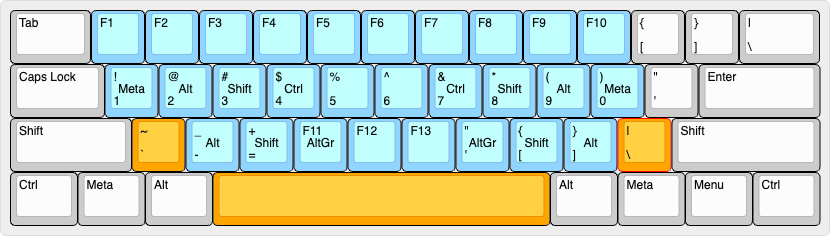
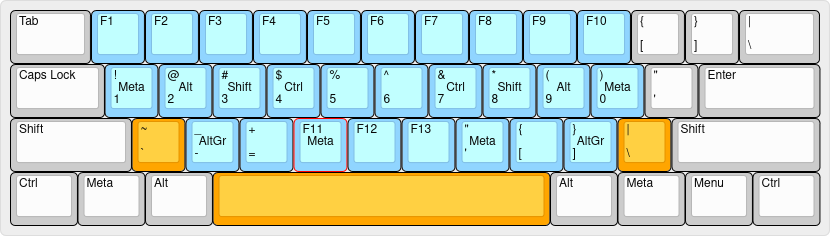
Update README.md.

diff --git a/README.md b/README.md
@@ -17,11 +17,11 @@ This layout implements a few chords, also known as combos or key combinations, w
 
 ### Layers
 
-Blue keys represent changes to the default layer. Orange indicates the key being held to activate the current layer.
+Blue keys represent changes to the default layer. Orange indicates which keys can activate the current layer while held.
 
 > Bear in mind that layer and modifier keys will activate only if another key is tapped immediately after. Otherwise, the expected repeat or long-press action will be respected (although a slight delay may be perceived).
 
-#### [Main](https://www.keyboard-layout-editor.com/##@_name=Main;&@_w:1.5;&=Tab&=Q&=W&=E&=R&=T&=Y&=U&=I&=O&=P&=%7B%0A%5B&=%7D%0A%5D&_w:1.5;&=%7C%0A%5C;&@_w:1.75;&=Caps%20Lock&_c=#90D5FF;&=A%0A%0A%0A%0A%0A%0A%0A%0A%0AMeta&=S%0A%0A%0A%0A%0A%0A%0A%0A%0AAlt&=D%0A%0A%0A%0A%0A%0A%0A%0A%0AShift&=F%0A%0A%0A%0A%0A%0A%0A%0A%0ACtrl&_c=#cccccc;&=G&=H&_c=#90D5FF;&=J%0A%0A%0A%0A%0A%0A%0A%0A%0ACtrl&=K%0A%0A%0A%0A%0A%0A%0A%0A%0AShift&=L%0A%0A%0A%0A%0A%0A%0A%0A%0AAlt&=/:%0A/;%0A%0A%0A%0A%0A%0A%0A%0AMeta&_c=#cccccc;&=%22%0A'&_w:2.25;&=Enter;&@_w:2.25;&=Shift&_c=#90D5FF;&=Z%0A%0A%0A%0A%0A%0A%0A%0A%0AFmbl&=X%0A%0A%0A%0A%0A%0A%0A%0A%0AAlt&=C%0A%0A%0A%0A%0A%0A%0A%0A%0AShift&=V%0A%0A%0A%0A%0A%0A%0A%0A%0AAltGr&_c=#cccccc;&=B&=N&_c=#90D5FF;&=M%0A%0A%0A%0A%0A%0A%0A%0A%0AAltGr&=%3C%0A,%0A%0A%0A%0A%0A%0A%0A%0AShift&=%3E%0A.%0A%0A%0A%0A%0A%0A%0A%0AAlt&=?%0A//%0A%0A%0A%0A%0A%0A%0A%0AFmbl&_c=#cccccc&w:2.75;&=Shift;&@_w:1.25;&=Ctrl&_w:1.25;&=Meta&_w:1.25;&=Alt&_c=#90D5FF&a:7&w:6.25;&=%3Ci%20class/='fa%20fa-thumbs-up'%3E%3C//i%3E&_c=#cccccc&a:4&w:1.25;&=Alt&_w:1.25;&=Meta&_w:1.25;&=Menu&_w:1.25;&=Ctrl)
+#### [Main](https://www.keyboard-layout-editor.com/##@_name=Main;&@_w:1.5;&=Tab&=Q&=W&=E&=R&=T&=Y&=U&=I&=O&=P&=%7B%0A%5B&=%7D%0A%5D&_w:1.5;&=%7C%0A%5C;&@_w:1.75;&=Caps%20Lock&_c=#90D5FF;&=A%0A%0A%0A%0A%0A%0A%0A%0A%0AMeta&=S%0A%0A%0A%0A%0A%0A%0A%0A%0AAlt&=D%0A%0A%0A%0A%0A%0A%0A%0A%0AShift&=F%0A%0A%0A%0A%0A%0A%0A%0A%0ACtrl&_c=#cccccc;&=G&=H&_c=#90D5FF;&=J%0A%0A%0A%0A%0A%0A%0A%0A%0ACtrl&=K%0A%0A%0A%0A%0A%0A%0A%0A%0AShift&=L%0A%0A%0A%0A%0A%0A%0A%0A%0AAlt&=/:%0A/;%0A%0A%0A%0A%0A%0A%0A%0AMeta&_c=#cccccc;&=%22%0A'&_w:2.25;&=Enter;&@_w:2.25;&=Shift&_c=#90D5FF;&=Z%0A%0A%0A%0A%0A%0A%0A%0A%0AFmbl&=X%0A%0A%0A%0A%0A%0A%0A%0A%0AAltGr&_c=#cccccc;&=C&_c=#90D5FF;&=V%0A%0A%0A%0A%0A%0A%0A%0A%0AMeta&_c=#cccccc;&=B&=N&_c=#90D5FF;&=M%0A%0A%0A%0A%0A%0A%0A%0A%0AMeta&_c=#cccccc;&=%3C%0A,&_c=#90D5FF;&=%3E%0A.%0A%0A%0A%0A%0A%0A%0A%0AAltGr&=?%0A//%0A%0A%0A%0A%0A%0A%0A%0AFmbl&_c=#cccccc&w:2.75;&=Shift;&@_w:1.25;&=Ctrl&_w:1.25;&=Meta&_w:1.25;&=Alt&_c=#90D5FF&a:7&w:6.25;&=%3Ci%20class/='fa%20fa-thumbs-up'%3E%3C//i%3E&_c=#cccccc&a:4&w:1.25;&=Alt&_w:1.25;&=Meta&_w:1.25;&=Menu&_w:1.25;&=Ctrl)
   
 ![Main layer image](images/main.png)
 
@@ -30,10 +30,10 @@ The default layer of this layout makes use of _Home Row Modifiers_ (see [pattern
 - Hold `A`, `S`, `D` and `F` for `Meta` (Win/Command), `Alt`, `Shift` and `Control` respectively.
 - Hold `J`, `K`, `L` and `;` for `Control`, `Shift`, `Alt` and `Meta` respectively.
 
-The bottom row contains the following modifiers and layer keys:
+The bottom row contains layer keys to quickly access funciton, number and symbol keys as well as the AltGr and Meta modifiers to make some key combinations more convenient:
 
-- Hold 'Z', 'C' and `V` for `AltGr`, `Custom` and `Fumbol` respectively.
-- Hold `M`, `,` and `/` for `Fumbol`, `Custom` and `AltGr` respectively.
+- Hold `Z`, `C` and `V` for `Fumbol`, `AltGr` and `Meta` respectively.
+- Hold `M`, `,` and `/` for `Meta`, `AltGr` and `Fumbol` respectively.
 
 The spacebar is also a layer key and behaves as an entry point to the following layers, defaulting to the Extend layer described below.
   
@@ -41,23 +41,15 @@ The spacebar is also a layer key and behaves as an entry point to the following 
   
 ![Extend layer image](images/extend.png)
 
-While holding the spacebar the navigation and editing keys will become accessible under the fingers of your right hand. With your left hand you will be able to use the modifier keys as well as to switch to the Shift, Fumbol and Custom layers, which will remain active until you release the spacebar.
+While holding the spacebar the navigation and editing keys will become accessible under the fingers of your right hand. With your left hand you will be able to access the modifier and media keys. The Shift and Fumbol keys can be used to switch to the corresponding layer, which will remain active until you release the spacebar.
 
-#### [Fumbol](https://www.keyboard-layout-editor.com/##@_name=Fumbol;&@_w:1.5;&=Tab&_c=#90D5FF;&=F1&=F2&=F3&=F4&=F5&=F6&=F7&=F8&=F9&=F10&_c=#cccccc;&=%7B%0A%5B&=%7D%0A%5D&_w:1.5;&=%7C%0A%5C;&@_w:1.75;&=Caps%20Lock&_c=#90D5FF;&=!%0A1%0A%0A%0A%0A%0A%0A%0A%0AMeta&=/@%0A2%0A%0A%0A%0A%0A%0A%0A%0AAlt&=#%0A3%0A%0A%0A%0A%0A%0A%0A%0AShift&=$%0A4%0A%0A%0A%0A%0A%0A%0A%0ACtrl&=%25%0A5&=%5E%0A6&=/&%0A7%0A%0A%0A%0A%0A%0A%0A%0ACtrl&=*%0A8%0A%0A%0A%0A%0A%0A%0A%0AShift&=(%0A9%0A%0A%0A%0A%0A%0A%0A%0AAlt&=)%0A0%0A%0A%0A%0A%0A%0A%0A%0AMeta&_c=#cccccc;&=%22%0A'&_w:2.25;&=Enter;&@_w:2.25;&=Shift&_c=#FFA500;&=~%0A%60&_c=#90D5FF;&=/_%0A-%0A%0A%0A%0A%0A%0A%0A%0AAlt&=+%0A/=%0A%0A%0A%0A%0A%0A%0A%0AShift&=F11%0A%0A%0A%0A%0A%0A%0A%0A%0AAltGr&=F12&=F13&=%22%0A'%0A%0A%0A%0A%0A%0A%0A%0AAltGr&=%7B%0A%5B%0A%0A%0A%0A%0A%0A%0A%0AShift&=%7D%0A%5D%0A%0A%0A%0A%0A%0A%0A%0AAlt&_c=#FFA500;&=%7C%0A%5C&_c=#cccccc&w:2.75;&=Shift;&@_w:1.25;&=Ctrl&_w:1.25;&=Meta&_w:1.25;&=Alt&_c=#FFA500&a:7&w:6.25;&=&_c=#cccccc&a:4&w:1.25;&=Alt&_w:1.25;&=Meta&_w:1.25;&=Menu&_w:1.25;&=Ctrl)
+#### [Fumbol](https://www.keyboard-layout-editor.com/##@_name=Fumbol;&@_w:1.5;&=Tab&_c=#90D5FF;&=F1&=F2&=F3&=F4&=F5&=F6&=F7&=F8&=F9&=F10&_c=#cccccc;&=%7B%0A%5B&=%7D%0A%5D&_w:1.5;&=%7C%0A%5C;&@_w:1.75;&=Caps%20Lock&_c=#90D5FF;&=!%0A1%0A%0A%0A%0A%0A%0A%0A%0AMeta&=/@%0A2%0A%0A%0A%0A%0A%0A%0A%0AAlt&=#%0A3%0A%0A%0A%0A%0A%0A%0A%0AShift&=$%0A4%0A%0A%0A%0A%0A%0A%0A%0ACtrl&=%25%0A5&=%5E%0A6&=/&%0A7%0A%0A%0A%0A%0A%0A%0A%0ACtrl&=*%0A8%0A%0A%0A%0A%0A%0A%0A%0AShift&=(%0A9%0A%0A%0A%0A%0A%0A%0A%0AAlt&=)%0A0%0A%0A%0A%0A%0A%0A%0A%0AMeta&_c=#cccccc;&=%22%0A'&_w:2.25;&=Enter;&@_w:2.25;&=Shift&_c=#FFA500;&=~%0A%60&_c=#90D5FF;&=/_%0A-%0A%0A%0A%0A%0A%0A%0A%0AAltGr&=+%0A/=&=F11%0A%0A%0A%0A%0A%0A%0A%0A%0AMeta&=F12&=F13&=%22%0A'%0A%0A%0A%0A%0A%0A%0A%0AMeta&=%7B%0A%5B&=%7D%0A%5D%0A%0A%0A%0A%0A%0A%0A%0AAltGr&_c=#FFA500;&=%7C%0A%5C&_c=#cccccc&w:2.75;&=Shift;&@_w:1.25;&=Ctrl&_w:1.25;&=Meta&_w:1.25;&=Alt&_c=#FFA500&a:7&w:6.25;&=&_c=#cccccc&a:4&w:1.25;&=Alt&_w:1.25;&=Meta&_w:1.25;&=Menu&_w:1.25;&=Ctrl)
   
 ![Fumbol layer image](images/fumbol.png)
 
 The function and number keys have been distributed along the top and home (middle) rows so they match the positioning they would have on a physical keyboard (no cheat-sheet required, just look at your keyboard).
 
-The bottom row contains symbols that would otherwise require you to move your hand away from the center of the keyboard to reach them. The order in which they appear on your physical keyboard has been preserved. The remaining 4 keys at the center of the bottom row are used for media playback and volume control.
-
-#### [Custom (or personal)](https://www.keyboard-layout-editor.com/##@_name=Custom&author=argenkiwi&notes=https/:////github.com//argenkiwi//kenkyo;&@_w:1.5;&=Tab&_c=#90D5FF;&=F11&=F12&=F13&=F14&=F15&=F16&=F17&=F18&=F19&=F20&_c=#cccccc;&=%7B%0A%5B&=%7D%0A%5D&_w:1.5;&=%7C%0A%5C;&@_c=#90D5FF&w:1.75;&=Caps%20Lock%0A%0A%0A%0A%0A%0A%0A%0A%0AExtend&=!%0A%0A%0A%0A%0A%0A%0A%0A%0AMeta&=/@%0A%0A%0A%0A%0A%0A%0A%0A%0AAlt&=#%0A%0A%0A%0A%0A%0A%0A%0A%0AShift&=$%0A%0A%0A%0A%0A%0A%0A%0A%0ACtrl&=%25&=%5E&=/&%0A%0A%0A%0A%0A%0A%0A%0A%0ACtrl&=*%0A%0A%0A%0A%0A%0A%0A%0A%0AShift&=(%0A%0A%0A%0A%0A%0A%0A%0A%0AAlt&=)%0A%0A%0A%0A%0A%0A%0A%0A%0AMeta&_a:7;&=Fmbl&_c=#cccccc&a:4&w:2.25;&=Enter;&@_w:2.25;&=Shift&_c=#90D5FF;&=~&=/_&=+&=F21&=F22&=F23&=F24&=%7B&=%7D&=%7C&_c=#cccccc&w:2.75;&=Shift;&@_w:1.25;&=Ctrl&_w:1.25;&=Meta&_w:1.25;&=Alt&_c=#FFA500&a:7&w:6.25;&=&_c=#cccccc&a:4&w:1.25;&=Alt&_w:1.25;&=Meta&_w:1.25;&=Menu&_w:1.25;&=Ctrl)
-  
-![Custom layer image](images/custom.png)
-
-Finally, this layer is intended to provide a place for shortcuts, macros, etc., that you may find useful in your own workflow.
-
-As an example, function keys that are rarely physically present on a keyboard but generally recognized by most operating systems were distributed along the top and bottom rows. Many applications will allow you to assign particular behaviours to them which can open up opportunities to simplify and speed up repetitive or frequent tasks. Also, this layer contains the shifted alternative for the numbers and symbols present in the fumbol layer described above.
+The bottom row contains symbols that would otherwise require you to move your hand away from the center of the keyboard to reach them. For completeness, F11 and F12 were also placed on the bottom row together with F13, which you choose to use for custom bindings in your favourite applications or to replace with a shortcut or macro of your preference.
 
 ## Instructions
 
